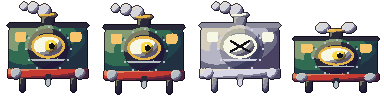
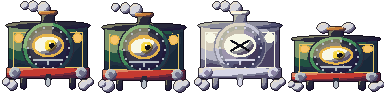
Boss sprites: final train and scarecrow
Done: final versions of the Last Train (32-bit) and Scarecrow (2.5D) boss sprites.
Checked: every existing art and audio file regenerates byte-identical; only the six new boss_story.png files differ from 4a90413.
To do: humans to play and judge the bosses.
Notes for the others: assetgen additions only.

Changed region(s): [[0.0, 0.0312, 1.0, 1.0], [0.5312, 0.0, 0.6562, 0.1875], [0.0312, 0.0, 0.1562, 0.1875]]

diff --git a/tools/assetgen/SpriteGen.cpp b/tools/assetgen/SpriteGen.cpp
@@ -1334,51 +1334,68 @@ void drawBossTrain(Canvas& c, int frame)
 {
     const bool hurt = frame == XF_HURT;
     Rig r = storyRig(c, frame);
-    Col green = pc(0x2f6b4f, 1), black = pc(0x2a2a36, 0), red = pc(0xc8382e, 1), brass = pc(0xe8b84a, 2);
-    Col steel = pc(0xb8bcc8, 2), smoke = pc(0xd8d6e2, 3), glass = pc(0xf5c96a, 3);
+    Col green = pc(0x3f8a5e, 2), cab = pc(0x24523e, 1), black = pc(0x2a2a36, 0), door = pc(0x3c3c4c, 0);
+    Col red = pc(0xc8382e, 1), brass = pc(0xe8b84a, 2), copper = pc(0xc87a3a, 2), steel = pc(0xb8bcc8, 2);
+    Col smoke = pc(0xd8d6e2, 3), glass = pc(0xf5c96a, 3), lining = pc(0xe8c860, 2);
     if (hurt) {
-        green = pc(0xb8b6c8, 2); black = pc(0x8a88a0, 1); red = pc(0xd8d4e8, 2); brass = pc(0xfaf3e6, 3);
-        steel = pc(0xd8d4e8, 2); glass = pc(0xfaf3e6, 3);
+        green = pc(0xc8c6d8, 2); cab = pc(0xb8b6c8, 2); black = pc(0x8a88a0, 1); door = pc(0x9a98b0, 1);
+        red = pc(0xd8d4e8, 2); brass = pc(0xfaf3e6, 3); copper = brass; steel = pc(0xd8d4e8, 2);
+        glass = pc(0xfaf3e6, 3); lining = glass;
     }
-    // smoke puffs from the funnel
-    float drift = frame == XF_FLOAT1 ? 0.1f : 0.0f;
+    // smoke from the funnel, drifting back
+    float drift = frame == XF_FLOAT1 ? 0.12f : 0.0f;
     if (frame != XF_SLAM) {
-        r.circle(1.38f - drift, 0.34f, 0.2f, lit(smoke));
-        r.circle(1.04f - drift, 0.24f, 0.17f, lit(smoke));
-        r.circle(0.76f - drift * 1.5f, 0.2f, 0.12f, lit(smoke));
-    } else {
-        r.circle(1.12f, 0.36f, 0.2f, lit(smoke));
-        r.circle(1.88f, 0.36f, 0.2f, lit(smoke));
+        r.circle(1.36f - drift, 0.26f, 0.19f, lit(smoke));
+        r.circle(1.04f - drift, 0.2f, 0.15f, lit(smoke));
+        r.circle(0.78f - drift * 1.4f, 0.17f, 0.11f, lit(smoke));
+    } else {   // squashed flat out of the top
+        r.circle(1.14f, 0.36f, 0.18f, lit(smoke));
+        r.circle(1.86f, 0.36f, 0.18f, lit(smoke));
+    }
+    // steam venting low at both sides
+    float puff = frame == XF_FLOAT1 ? 0.03f : 0.0f;
+    for (int s = -1; s <= 1; s += 2) {
+        r.circle(1.5f + s * 1.12f, 2.66f - puff, 0.15f + puff, lit(smoke));
+        r.circle(1.5f + s * 1.3f, 2.56f, 0.11f, lit(smoke));
     }
     // wheels just showing under the beam
-    r.rect(0.62f, 2.4f, 0.16f, 0.46f, lit(black), 0.05f);
-    r.rect(2.22f, 2.4f, 0.16f, 0.46f, lit(black), 0.05f);
-    // cab behind the boiler: roof, spectacle windows
-    r.rect(0.3f, 0.78f, 2.4f, 1.5f, lit(green), 0.2f);
-    r.rect(0.24f, 0.72f, 2.52f, 0.14f, solid(black), 0.07f);
-    r.rect(0.46f, 0.98f, 0.36f, 0.34f, solid(glass), 0.1f);
-    r.rect(2.18f, 0.98f, 0.36f, 0.34f, solid(glass), 0.1f);
-    // funnel
-    r.rect(1.32f, 0.46f, 0.36f, 0.5f, lit(black), 0.03f);
-    r.rect(1.24f, 0.42f, 0.52f, 0.1f, lit(brass), 0.03f);
-    // the smokebox: a round dark face ringed with rivets
-    r.circle(1.5f, 1.52f, 0.74f, lit(green));
-    r.circle(1.5f, 1.52f, 0.64f, lit(black));
-    for (int i = 0; i < 12; ++i) {
-        float a = i * 0.5236f;
-        r.dot(1.5f + std::cos(a) * 0.69f, 1.52f + std::sin(a) * 0.69f, steel, 2);
+    r.rect(0.66f, 2.4f, 0.16f, 0.36f, lit(black), 0.06f);
+    r.rect(2.18f, 2.4f, 0.16f, 0.36f, lit(black), 0.06f);
+    // the cab behind the boiler: curved roof, lined panels, round spectacle windows
+    r.rect(0.3f, 0.78f, 2.4f, 1.42f, lit(cab), 0.08f);
+    r.ellipse(1.5f, 0.8f, 1.3f, 0.12f, lit(black));
+    r.rect(0.4f, 0.98f, 2.2f, 1.14f, solid(lining), 0.06f);
+    r.rect(0.43f, 1.01f, 2.14f, 1.08f, lit(cab), 0.05f);
+    for (int s = -1; s <= 1; s += 2) {
+        r.circle(1.5f + s * 0.92f, 1.18f, 0.16f, solid(brass));
+        r.circle(1.5f + s * 0.92f, 1.18f, 0.12f, solid(glass));
     }
-    r.capsule(1.0f, 1.86f, 2.0f, 1.86f, 0.03f, solid(steel));   // door strap
-    // buffer beam, buffers, coupling
-    r.rect(0.26f, 2.14f, 2.48f, 0.3f, lit(red), 0.04f);
-    for (float bx : {0.5f, 2.5f}) {
-        r.rect(bx - 0.08f, 2.18f, 0.16f, 0.22f, solid(farSide(steel)));
-        r.circle(bx, 2.29f, 0.17f, lit(steel));
+    // funnel with a copper cap
+    r.rect(1.31f, 0.4f, 0.38f, 0.52f, lit(black), 0.03f);
+    r.rect(1.22f, 0.34f, 0.56f, 0.12f, lit(copper), 0.04f);
+    // the boiler front: a green band round the dark round smokebox door, rivets, a strap
+    r.circle(1.5f, 1.48f, 0.82f, solid(black));
+    r.circle(1.5f, 1.48f, 0.78f, lit(green));
+    r.circle(1.5f, 1.48f, 0.68f, lit(black));
+    r.circle(1.5f, 1.5f, 0.58f, lit(door));
+    for (int i = 0; i < 14; ++i) {
+        float a = i * 0.4488f;
+        r.dot(1.5f + std::cos(a) * 0.63f, 1.48f + std::sin(a) * 0.63f, steel, 2);
     }
-    r.rect(1.42f, 2.32f, 0.16f, 0.2f, solid(black));
-    r.capsule(1.5f, 2.5f, 1.5f, 2.64f, 0.05f, solid(steel));
-    // the headlamp is the eye, in a brass bezel
-    storyEye(r, 1.5f, 1.44f, 0.72f, hurt, brass, 0.08f);
+    r.capsule(1.06f, 1.86f, 1.94f, 1.86f, 0.035f, solid(steel));
+    r.capsule(1.5f, 1.86f, 1.5f, 2.0f, 0.035f, solid(steel));
+    // buffer beam, buffers and the coupling
+    r.rect(0.22f, 2.12f, 2.56f, 0.3f, lit(red), 0.04f);
+    for (int s = -1; s <= 1; s += 2) {
+        float bx = 1.5f + s * 1.04f;
+        r.circle(bx, 2.27f, 0.18f, lit(steel));
+        r.circle(bx, 2.27f, 0.08f, solid(farSide(steel)));
+    }
+    r.rect(1.42f, 2.3f, 0.16f, 0.2f, solid(black));
+    r.capsule(1.5f, 2.48f, 1.5f, 2.64f, 0.05f, solid(steel));
+    // the headlamp is the eye: a brass bezel with a little hood
+    r.rect(1.32f, 1.04f, 0.36f, 0.1f, solid(brass), 0.03f);
+    storyEye(r, 1.5f, 1.42f, 0.68f, hurt, brass, 0.08f);
 }
 
 // Stage 5, THE SCARECROW: straw hat, sack face, an old coat on a crossed stick, one pole leg.
@@ -1436,18 +1453,26 @@ void drawBossScarecrow(Canvas& c, int frame)
         float x = 1.3f + i * 0.08f;
         r.capsule(x, 0.96f, x + (i - 2.5f) * 0.05f, 1.1f, 0.025f, solid(i % 2 ? strawD : straw));
     }
-    // the sack head, tied with rope
-    r.ellipse(1.5f, 0.72f, 0.38f, 0.34f, lit(sack));
-    r.poly({{1.36f, 0.98f}, {1.64f, 0.98f}, {1.7f, 1.06f}, {1.3f, 1.06f}}, lit(sack));
-    r.capsule(1.33f, 1.0f, 1.67f, 1.0f, 0.03f, solid(rope));
-    // stitched mouth
-    r.capsule(1.34f, 0.92f, 1.66f, 0.9f, 0.012f, solid(stitch));
-    for (int i = 0; i < 5; ++i) {
-        float x = 1.37f + i * 0.065f;
-        r.capsule(x, 0.87f, x, 0.95f, 0.012f, solid(stitch));
+    // the sack head, tied with rope, a little weave showing
+    r.ellipse(1.5f, 0.74f, 0.42f, 0.36f, lit(sack));
+    r.poly({{1.36f, 1.0f}, {1.64f, 1.0f}, {1.72f, 1.08f}, {1.28f, 1.08f}}, lit(sack));
+    r.capsule(1.32f, 1.02f, 1.68f, 1.02f, 0.03f, solid(rope));
+    Col weave = farSide(sack);
+    for (int i = 0; i < 9; ++i) {
+        float wx = 1.2f + rnd(i, 3, 41) * 0.6f, wy = 0.56f + rnd(i, 4, 41) * 0.38f;
+        float ex = (wx - 1.5f) / 0.4f, ey = (wy - 0.74f) / 0.34f;
+        if (ex * ex + ey * ey < 0.8f && (std::fabs(wx - 1.5f) > 0.26f || wy > 0.88f))
+            r.capsule(wx, wy, wx + 0.04f, wy, 0.008f, solid(weave));
+    }
+    // stitched mouth, a crooked line of cross stitches
+    r.capsule(1.3f, 0.92f, 1.5f, 0.95f, 0.012f, solid(stitch));
+    r.capsule(1.5f, 0.95f, 1.7f, 0.91f, 0.012f, solid(stitch));
+    for (int i = 0; i < 6; ++i) {
+        float x = 1.33f + i * 0.068f, y = 0.93f + (i > 0 && i < 5 ? 0.015f : 0.0f);
+        r.capsule(x, y - 0.045f, x, y + 0.045f, 0.012f, solid(stitch));
     }
     // the eye on the face
-    storyEye(r, 1.5f, 0.7f, 0.46f, hurt, ringc, 0.035f);
+    storyEye(r, 1.5f, 0.69f, 0.42f, hurt, ringc, 0.035f);
     // straw hat
     r.ellipse(1.5f, 0.42f, 0.74f, 0.12f, lit(straw));
     r.rect(1.16f, 0.08f, 0.68f, 0.36f, lit(straw), 0.12f);
